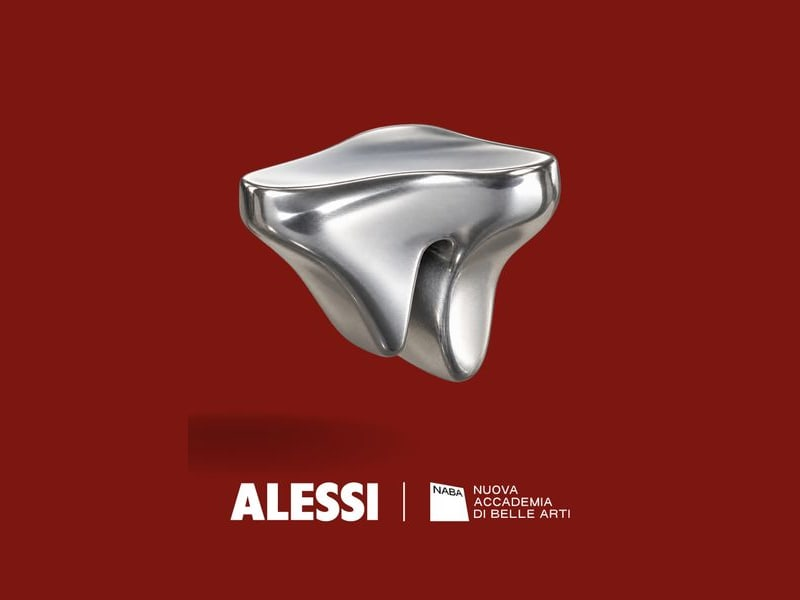
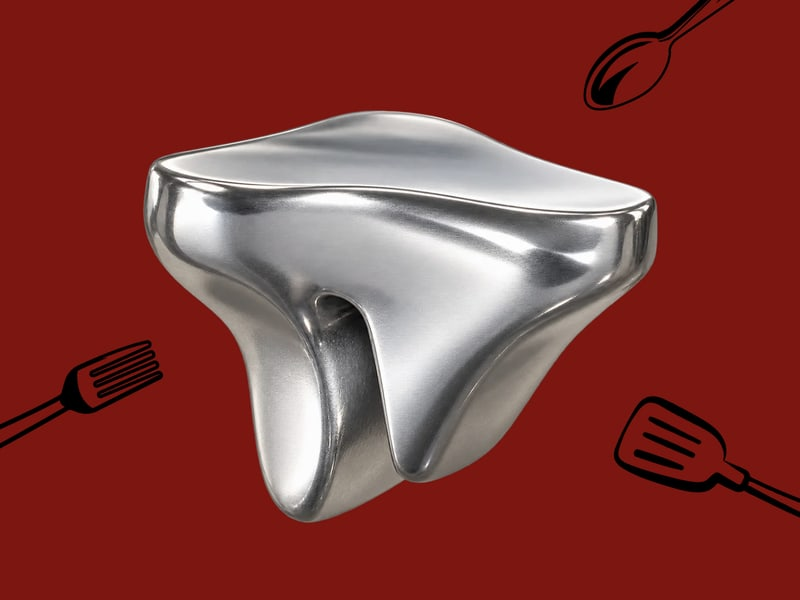
The cards fit their sentences, the stage glows in dark, and the gallery card is Jack's own
1. THE SUMMARY CARDS ARE SIZED SO THEIR LONGEST SENTENCE HOLDS TWO LINES.
Jack: "the solution box seems far off now with the text." Last commit's
`balance` did fix the widow and it broke the shape: it evens the lines
WITHIN the line count, so at 1320 the Solution card went from two full
lines plus "back in." to three lines filling 73/66/65% of the box - a
narrow column of text inside a bordered card with a quarter of it empty
down the right. On unbordered prose nobody sees that; the border is what
makes unused measure a visible shape.

THE CAUSE IS 1.5%, NOT THE WRAP RULE. That sentence needs about 700px of
line. At 1440 the card gives it 2 x 361 and it sets in two full lines; at
1320 it gives 2 x 345 and misses, so it spills into a third line that is
2.15 lines' worth of content however it is distributed. Every wrap rule is
then only choosing where to put the same hole: pretty puts it all at the
end (a 17% stub), balance spreads it across every line.

So the measure buys the 1.5% back: 0.95rem instead of 0.98 and 14px of
side padding instead of 16, together about 5% more line. The Solution card
sets two full lines at 98/101% at 1320 where it was 73/66/65, and 1440 is
unchanged and still full. The 14 also puts the body on the same left edge
as .cs-card-t above it, which had been 2px out since the cards were built.
pretty goes back underneath for the tail. Between about 1150 and 1280 the
sentence still lands just over two lines and the third is a stub - the
[…]

diff --git a/i18n.js b/i18n.js
@@ -130,7 +130,7 @@
       'proj.pot-clip.cs.posters.b': "<p>I developed a poster series to show how the rest could launch as an Alessi product. The line <em>Il buon design vive nei dettagli</em> (“Good design lives in the details”) ties the campaign back to what I learned in research: Alessi makes small objects that improve everyday rituals. I wrote the copy in Italian to place the series in Alessi’s world, and drew on the brand’s existing posters and current graphic design trends.</p>",
       'proj.pot-clip.cs.limits.t': "Limitations and next steps",
       'proj.pot-clip.cs.limits.b': "<p>Testing showed real problems with the concept, and some of them need more research before this could become a product.</p><dl class=\"cs-defs cs-defs-row\"><dt>Rim fit</dt><dd>Testing showed one clip profile fits only about half of pots. Next step: a spring-tension clip or a lined inner surface, plus a larger size for bigger pots.</dd><dt>Heat</dt><dd>In real metal on a hot pot, the clips would get too hot to adjust by hand. Next step: a low-conductivity material where fingers would touch.</dd><dt>Stability</dt><dd>I kept the top flat on purpose so it could hold more kinds of utensils, but a round handle can still roll. Next step: add a shallow cradle for grip, without trying to limit what it holds.</dd><dt>Limited testing</dt><dd>So far, all of the usage research is my own, on a small set of pots. Next step: develop more concepts, test them on a wider range of pots, and refine the strongest one.</dd></dl>",
-      'proj.pot-clip.alt.thumb': "A poster on a deep red ground: the clip in polished silver above the Alessi and NABA marks.",
+      'proj.pot-clip.alt.thumb': "The rest in polished silver on a deep red ground, with a spoon, a fork and two spatulas drawn in line around it.",
       'proj.pot-clip.cs.alt.hero': "A poster headed “Il buon design vive nei dettagli”, with the silver clip hooked over a steel bowl rim holding a slim wooden rod, and the Alessi mark below.",
       'proj.pot-clip.cs.alt.store': "The Alessi store in Milan seen from across the street, its arched window full of small metal pieces on open wooden shelves.",
       'proj.pot-clip.cs.alt.sketches': "A notebook spread headed “Movable pot-rim utensil rest”, with profile sketches, a pot in section and a “how might we” note.",
@@ -390,7 +390,7 @@
       'proj.pot-clip.cs.posters.b': "<p>Desarrollé una serie de carteles para mostrar cómo el soporte podría lanzarse como producto de Alessi. La frase <em>Il buon design vive nei dettagli</em> («el buen diseño vive en los detalles») conecta la campaña con lo que aprendí en la investigación: Alessi hace objetos pequeños que mejoran gestos cotidianos. Escribí los textos en italiano para situar la serie en el mundo de Alessi, y partí de los carteles existentes de la marca y de las tendencias actuales del diseño gráfico.</p>",
       'proj.pot-clip.cs.limits.t': "Limitaciones y próximos pasos",
       'proj.pot-clip.cs.limits.b': "<p>Las pruebas mostraron problemas reales del concepto, y algunos necesitan más investigación antes de que esto pudiera ser un producto.</p><dl class=\"cs-defs cs-defs-row\"><dt>Ajuste al borde</dt><dd>Las pruebas mostraron que un solo perfil encaja en cerca de la mitad de las ollas. Siguiente paso: un soporte con tensión de muelle o una superficie interior forrada, más una talla mayor para ollas grandes.</dd><dt>Calor</dt><dd>En metal real sobre una olla caliente, los soportes estarían demasiado calientes para ajustarlos con la mano. Siguiente paso: un material de baja conductividad donde tocan los dedos.</dd><dt>Estabilidad</dt><dd>Dejé la parte superior plana a propósito para que sostuviera más tipos de utensilios, pero un mango redondo aún puede rodar. Siguiente paso: añadir una cuna poco profunda para el agarre, sin limitar lo que puede sostener.</dd><dt>Pruebas limitadas</dt><dd>Hasta ahora toda la investigación de uso es mía, sobre pocas ollas. Siguiente paso: desarrollar más conceptos, probarlos en más ollas y refinar el más sólido.</dd></dl>",
-      'proj.pot-clip.alt.thumb': "Un cartel sobre fondo rojo oscuro: el soporte en plata pulida sobre las marcas de Alessi y NABA.",
+      'proj.pot-clip.alt.thumb': "El soporte en plata pulida sobre fondo rojo oscuro, con una cuchara, un tenedor y dos espátulas dibujadas a línea alrededor.",
       'proj.pot-clip.cs.alt.hero': "Un cartel encabezado «Il buon design vive nei dettagli», con el soporte plateado enganchado al borde de un bol de acero sosteniendo una fina varilla de madera, y la marca Alessi debajo.",
       'proj.pot-clip.cs.alt.store': "La tienda de Alessi en Milán vista desde la acera de enfrente, con su escaparate en arco lleno de pequeñas piezas de metal en estantes de madera.",
       'proj.pot-clip.cs.alt.sketches': "Una doble página de cuaderno titulada “Movable pot-rim utensil rest”, con bocetos de perfil, una olla en sección y una nota “cómo podríamos”.",
@@ -648,7 +648,7 @@
       'proj.pot-clip.cs.posters.b': "<p>この器具置きがAlessiの製品として発売されるとしたらどう見えるかを示すため、ポスターシリーズを制作した。コピーの<em>Il buon design vive nei dettagli</em>（「良いデザインはディテールに宿る」）は、リサーチでわかったこと——Alessiは日常の所作を少しだけ良くする小さな道具をつくっている——にキャンペーンを結びつけている。シリーズをAlessiの世界に置くためコピーはイタリア語で書き、ブランドの既存のポスターと現在のグラフィックデザインの傾向を参考にした。</p>",
       'proj.pot-clip.cs.limits.t': "限界と次のステップ",
       'proj.pot-clip.cs.limits.b': "<p>テストによってコンセプトの実際の問題が見えた。製品にするには、さらに調査が必要なものもある。</p><dl class=\"cs-defs cs-defs-row\"><dt>ふちへの適合</dt><dd>ひとつの断面では鍋の約半数にしか合わないことが分かった。次の一手：ばね張力式のクリップ、または内面にライニングを施すこと。加えて大きな鍋向けの大きいサイズ。</dd><dt>熱</dt><dd>実際の金属で熱い鍋に掛ければ、手で位置を直せないほど熱くなる。次の一手：指が触れる部分に熱伝導率の低い素材を使うこと。</dd><dt>安定性</dt><dd>多様な器具を支えられるよう、上面はあえて平らにした。しかし丸い柄は転がりうる。支える対象を狭めない範囲で、浅い窪みを加えるのが次の一手。</dd><dt>限られたテスト</dt><dd>現時点で使用に関する調査はすべて自分自身、しかも少数の鍋によるものだ。次の一手：案をさらに展開し、より広い範囲の鍋で試し、最も強い案を磨くこと。</dd></dl>",
-      'proj.pot-clip.alt.thumb': "深い赤を背景にしたポスター。磨かれた銀色のクリップの下にAlessiとNABAのマークが並ぶ。",
+      'proj.pot-clip.alt.thumb': "深い赤を背景にした、磨かれた銀色のクリップ。まわりにスプーン、フォーク、ヘラが線画で描かれている。",
       'proj.pot-clip.cs.alt.hero': "「Il buon design vive nei dettagli」と題したポスター。ステンレスボウルのふちに掛けた銀色のクリップが細い木の棒を支え、下にAlessiのマークが入る。",
       'proj.pot-clip.cs.alt.store': "通りの向かいから見たミラノのAlessi店舗。アーチ型の窓の奥、木の棚に小さな金属製品が並ぶ。",
       'proj.pot-clip.cs.alt.sketches': "「Movable pot-rim utensil rest」と見出しのついたノートの見開き。断面のスケッチ、鍋の断面図、「どうすれば」のメモがある。",
@@ -906,7 +906,7 @@
       'proj.pot-clip.cs.posters.b': "<p>Ho sviluppato una serie di manifesti per mostrare come l’appoggio potrebbe uscire come prodotto Alessi. La frase <em>Il buon design vive nei dettagli</em> lega la campagna a quello che ho imparato dalla ricerca: Alessi fa oggetti piccoli che migliorano un gesto quotidiano. Ho scritto i testi in italiano per collocare la serie nel mondo Alessi, e sono partito dai manifesti esistenti del marchio e dalle tendenze grafiche attuali.</p>",
       'proj.pot-clip.cs.limits.t': "Limiti e prossimi passi",
       'proj.pot-clip.cs.limits.b': "<p>I test hanno mostrato problemi reali del concept, e alcuni richiedono altra ricerca prima che questo possa diventare un prodotto.</p><dl class=\"cs-defs cs-defs-row\"><dt>Calzata sul bordo</dt><dd>I test hanno mostrato che un solo profilo si adatta a circa metà delle pentole. Prossimo passo: un supporto a molla o una superficie interna rivestita, più una misura più grande.</dd><dt>Calore</dt><dd>In metallo vero su una pentola calda, i supporti scotterebbero troppo per spostarli a mano. Prossimo passo: un materiale a bassa conducibilità dove toccano le dita.</dd><dt>Stabilità</dt><dd>Ho tenuto la parte superiore piatta di proposito, per reggere più tipi di utensile, ma un manico tondo può ancora rotolare. Prossimo passo: una culla poco profonda per la presa, senza limitare ciò che regge.</dd><dt>Test limitati</dt><dd>Finora tutta la ricerca d’uso è la mia, su poche pentole. Prossimo passo: sviluppare altri concept, provarli su più pentole e affinare il più solido.</dd></dl>",
-      'proj.pot-clip.alt.thumb': "Un manifesto su fondo rosso scuro: il supporto in argento lucido sopra i marchi Alessi e NABA.",
+      'proj.pot-clip.alt.thumb': "Il supporto in argento lucido su fondo rosso scuro, con un cucchiaio, una forchetta e due spatole disegnati a linea intorno.",
       'proj.pot-clip.cs.alt.hero': "Un manifesto con la riga «Il buon design vive nei dettagli», il supporto argentato agganciato al bordo di una ciotola d’acciaio che regge un’asta di legno sottile, e il marchio Alessi sotto.",
       'proj.pot-clip.cs.alt.store': "Il negozio Alessi a Milano visto dall’altro lato della strada, con la vetrina ad arco piena di piccoli oggetti di metallo su scaffali di legno.",
       'proj.pot-clip.cs.alt.sketches': "Una doppia pagina di quaderno intitolata “Movable pot-rim utensil rest”, con schizzi di profilo, una pentola in sezione e una nota “come potremmo”.",

diff --git a/styles.css b/styles.css
@@ -3299,30 +3299,37 @@ body.is-loading { overflow: hidden; }
   font-size: 0.72rem; font-weight: 700; letter-spacing: 1.6px;
   text-transform: uppercase; padding: 9px 14px;
 }
-/* NO WIDOW ON THE LAST LINE - AND `balance` HERE, WHERE THE BRIEF TAKES
-   `pretty`. Jack: "the solution box has a widow; fix it." At 1320 the
-   Solution card broke to "...so drips fall / back in.", and at 1000 and
-   900 all three cards ended on a two-word fragment.
-   PRETTY WAS TRIED FIRST AND DID NOT FIX IT. Chrome only rebalances the
-   last few lines and only so far; measured at 1320 it left "back in."
-   exactly where it was, and at 1200 it still left "a utensil." and
-   "thin-rimmed pots." hanging. The brief's note explains why a rule beats
-   a non-breaking space, and that reasoning is unchanged - it is the choice
-   of rule that differs.
-   BALANCE IS THE RIGHT ONE FOR A SHORT BLOCK IN A NARROW COLUMN, which is
-   exactly what a card is: two to four lines where the last one is a large
-   fraction of the whole, so an even rag reads as set rather than as
-   spilled. The brief is one wide paragraph at display size where only the
-   last line was wrong, and balancing it would re-rag three lines that are
-   already right.
-   AND IT COSTS NOTHING, which pretty could not promise: balance evens the
-   lines WITHIN the line count normal wrapping already produced, so the
-   row's height is identical to the unbalanced one at every width measured
-   - 174 at 1440, 1320 and 1200, 198 at 1000, 223 at 900. The cards are
-   grid items in one row, so all three take the tallest's height anyway. */
+/* THE CARD IS SIZED SO ITS LONGEST SENTENCE HOLDS TWO LINES, and that is
+   the fix for both complaints about this block.
+   FIRST `balance`, WHICH SOLVED THE WIDOW AND BROKE THE SHAPE. It evens
+   the lines within the line count, so at 1320 the Solution card went from
+   two full lines and "back in." to three lines filling 73/66/65% of the
+   box - no widow, and a narrow column of text inside a bordered card with
+   a quarter of it empty down the right. Jack: "the solution box seems far
+   off now with the text." On unbordered prose nobody would see it; the
+   border is what makes the unused measure a visible shape.
+   THE CAUSE IS 1.5%, NOT THE WRAP RULE. That sentence needs about 700px
+   of line; at 1440 the card gives it 2 x 361 and it sets in two full
+   lines, and at 1320 it gives 2 x 345 and misses - so the text spills
+   into a third line that is 2.15 lines' worth of content however it is
+   distributed. Every wrap rule is then choosing where to put the same
+   hole: `pretty` puts it all at the end (a 17% stub), `balance` spreads it
+   across every line.
+   SO THE MEASURE BUYS THE 1.5% BACK: 0.95rem instead of 0.98 and 14px of
+   side padding instead of 16, together about 5% more line. Measured, the
+   Solution card sets two full lines at 98/101% at 1320 where it was
+   73/66/65, and 1440 is unchanged and still full. The 14 also puts the
+   body on the same left edge as .cs-card-t above it, which was 2px out.
+   AND `pretty` UNDERNEATH, because with the text fitting again the only
+   job left is the tail. Between about 1150 and 1280 the sentence still
+   lands just over two lines and the third is a stub; that band is the
+   honest residue of a fixed string in a fluid column, and the answer
+   there would be a breakpoint for something nobody can name. The brief
+   keeps `pretty` for its own reason - one wide paragraph at display size
+   where only the last line was ever wrong. */
 .cs-card-b {
-  font-size: 0.98rem; line-height: 1.55; padding: 18px 16px 20px; margin: 0;
-  text-wrap: balance;
+  font-size: 0.95rem; line-height: 1.55; padding: 18px 14px 20px; margin: 0;
+  text-wrap: pretty;
 }
 
 /* ---- the brief, as the page's one dark band ---------------------------
@@ -3831,6 +3838,26 @@ body.is-loading { overflow: hidden; }
 .cs-stage-slot .project-stage {
   border: 3px solid var(--accent);
   background: var(--white);
+}
+/* AND IN DARK IT GLOWS, like everything else accent-coloured there. Jack:
+   "in dark mode, can you make the 3D model box glow a little bit like the
+   neon?" This is the brief's own split - light is refined, dark is
+   experimental - and the page already answers it the same way in three
+   places: the hero CTA, the badge mark and the seam ring all bloom in
+   dark and sit flat in light.
+   THE SAME SHAPE AS .btn-block's: its alpha, 34%, and a slightly wider
+   blur, 30px against 26. Same alpha because that is the strength Jack
+   already accepted on the CTA and the one that reads as neon rather than
+   as a drawn line; wider because this is a 546px frame where that is a
+   226px control, and a blur tuned to a small object draws a rim around a
+   big one instead of a halo. 26% at 34px was tried first and came out
+   closer to a smudge than a glow.
+   color-mix on --accent rather than a literal, so it tracks the token the
+   border already uses. No second declaration in light: a bloom on a coral
+   frame over sand is the gradient this page does not do, and the two
+   modes differing in kind is the brief. */
+:root[data-theme="dark"] .cs-stage-slot .project-stage {
+  box-shadow: 0 0 30px color-mix(in srgb, var(--accent) 34%, transparent);
 }
 
 /* ---- the process, as four cards in a 2x2 -------------------------------

diff --git a/script.js b/script.js
@@ -180,19 +180,35 @@ const projectData = {
   },
 
   'pot-clip': {
-    /* THE CARD IS THE RED POSTER, WHOLE. Jack: "for the project card in the
-       main page, change the image to 20.jpg and let's see how that looks."
-         The card slot is 4:3 and the poster is 1414x2000, so a crop can hold
-       the object or the ALESSI / NABA lockup and not both. It is composited
-       instead: the poster scaled to the full height of a 1280x960 canvas
-       filled with #7C1611, which is the poster's own ground sampled at all
-       four corners. The bars are therefore the same red as the picture and
-       nothing reads as letterboxed - the card is one red field with the
-       object in it, and no part of the poster is cut.
-         It is also lighter than the photograph it replaces, 37K against
-       198K, because most of it is flat colour.
-         bg is that red for the same reason it was the photograph's grey:
-       the card must not flash a colour the image then contradicts.
+    /* THE CARD IS A PIECE JACK MADE FOR THE SLOT. "Change the project card
+       to newAlessicard.png" - the render on its own red ground with four
+       drawn utensils around it, 1400x1050, which is the 4:3 and the exact
+       export size this project's card spec asks for. So there is no crop
+       and no composite this time: the file lands in the slot as it is.
+         IT REPLACES A COMPOSITE OF THE POSTER, which was the previous
+       answer to the same slot - the 1414x2000 poster scaled onto a red
+       canvas, because a 4:3 crop of it could hold the object or the
+       ALESSI / NABA lockup and not both. A piece drawn for the shape beats
+       a piece fitted to it.
+         IT KEEPS CLEAR OF THE TWO THINGS THAT EAT A CARD'S EDGES. The
+       .card-media::after badge is a 46x46 square pinned top-right with two
+       hard black rules, and the hover zoom scales the image 1.04 - about
+       2% off every side. The top-right corner of this one is empty ground
+       and the nearest drawing, the spoon, sits inside 88% of the width, so
+       neither reaches anything.
+         bg is #7B1610, the ground sampled from the file's own corner
+       pixels. It was #7C1611 for the composite - one step away, the same
+       red through two exports - and it is kept current for a reason that
+       does not currently apply: renderGallery writes it onto the card as
+       --bg, and NOTHING READS THAT PROPERTY. Checked across styles.css,
+       script.js and index.html: one write, no var(--bg) anywhere. So `bg`
+       is inert today. It is left correct rather than left stale because
+       the thing it was for - the card not flashing a colour the image
+       then contradicts - is still worth having, and the fix is one rule
+       on .card-media rather than six values to re-derive.
+         80K jpeg / 59K webp at 43.7 and 42.6 dB against a q98 reference.
+       Bigger than the 37K composite, which was mostly flat colour; this
+       one carries a full-frame render.
          ?v= BECAUSE THE BYTES CHANGED AT A LIVE PATH. /assets/ gets an hour
        of freshness and a week of stale-while-revalidate, so without it a
        returning visitor keeps the old bowl photograph for days. tools/
@@ -202,9 +218,9 @@ const projectData = {
        masonry wall and nothing replaced them for the card - so the one
        image representing this project in the gallery had been falling
        through to the generic "Photo 1 from POT CLIP UTENSIL REST". */
-    bg: '#7C1611',
-    thumb: { src: '/assets/projects/pot-clip/thumb.jpg?v=8c30b2db', w: 1280, h: 960,
-      small: '/assets/projects/pot-clip/thumb-800.jpg?v=516b3c30',
+    bg: '#7B1610',
+    thumb: { src: '/assets/projects/pot-clip/thumb.jpg?v=51f18351', w: 1400, h: 1050,
+      small: '/assets/projects/pot-clip/thumb-800.jpg?v=03bb7618',
       altKey: 'proj.pot-clip.alt.thumb' },
     category: 'PRODUCT',
     title: 'POT CLIP UTENSIL REST',

diff --git a/CLAUDE.md b/CLAUDE.md
@@ -1694,6 +1694,20 @@ themes and, as it turned out, quieter than the job needed).
 Same 3px as `.cs-fig` — the weight matches its neighbour and only the
 colour differs. **Do not give it the hard rule**; that is the thing the
 viewer note is about.
+**AND IN DARK IT GLOWS.** Jack: *"in dark mode, can you make the 3D model
+box glow a little bit like the neon?"* That is the brief's own split —
+light refined, dark experimental — and the page already answers it the
+same way in three places: the hero CTA, the badge mark and the seam ring
+all bloom in dark and sit flat in light.
+**`.btn-block`'s alpha and a slightly wider blur**: `0 0 30px` at **34%**
+against its 26px at 34%. The same alpha because that is the strength Jack
+already accepted on the CTA; wider because this is a 546px frame where
+that is a 226px control, and a blur tuned to a small object draws a rim
+round a big one instead of a halo. 26% at 34px was tried first and came
+out closer to a smudge than a glow. `color-mix` on `--accent`, so it
+tracks the token the border already uses, and **no light-mode
+declaration** — a bloom on a coral frame over sand is the gradient this
+page does not do.
 
 **AND THE DRAG LABEL IS INSIDE IT NOW, 14px from the top-left corner.**
 Jack: *"move the drag to rotate text to the top left inside corner of the
@@ -2269,28 +2283,35 @@ rule that can add a line does not belong under a measurement unless it is
 asked for. Where the property is unsupported the paragraph wraps exactly as
 it does today, so there is nothing to fall back to.
 
-**THE SUMMARY CARDS TAKE `balance`, NOT `pretty`, AND THE DIFFERENCE IS
-THE SHAPE OF THE BLOCK.** Jack: *"the solution box has a widow; fix it."*
-At 1320 the Solution card broke to "…so drips fall / **back in.**", and at
-1000 and 900 all three cards ended on a two-word fragment.
-**`pretty` was tried first and did not fix it**, which is worth knowing
-before reaching for it again: Chrome only rebalances the last few lines
-and only so far — measured at 1320 it left "back in." exactly where it
-was, and at 1200 it still left "a utensil." and "thin-rimmed pots."
-hanging.
-**`balance` is the right rule for a short block in a narrow column**,
-which is what a card is: two to four lines where the last one is a large
-fraction of the whole, so an even rag reads as set rather than as spilled.
-The brief is one wide paragraph at display size where only the last line
-was wrong, and balancing it would re-rag three lines that are already
-right.
-**And it costs no height**, which `pretty` could not promise: `balance`
-evens the lines WITHIN the line count normal wrapping already produced, so
-the row measures the same with it as without — **174px at 1440, 1320 and
-1200, 198 at 1000, 223 at 900.** Measured across those widths plus 390 and
-320 in all four languages, every last line now carries three words or more
-(or a full CJK run), and the three cards stay level with each other
-wherever they are a row.
+**THE SUMMARY CARDS ARE SIZED SO THEIR LONGEST SENTENCE HOLDS TWO LINES,
+AND THAT IS THE FIX FOR BOTH COMPLAINTS ABOUT THIS BLOCK.**
+**First `balance`, which solved the widow and broke the shape.** Jack:
+*"the solution box has a widow; fix it."* At 1320 the Solution card was
+breaking to "…so drips fall / **back in.**", and `balance` evens the lines
+within the line count, so it became three lines filling **73/66/65%** of
+the box — no widow, and a narrow column of text inside a bordered card
+with a quarter of it empty down the right. Jack again: *"the solution box
+seems far off now with the text."* On unbordered prose nobody would see
+it; **the border is what makes unused measure a visible shape.**
+**The cause is 1.5%, not the wrap rule.** That sentence needs about 700px
+of line. At 1440 the card gives it 2 × 361 and it sets in two full lines;
+at 1320 it gives 2 × 345 and misses — so it spills into a third line that
+is 2.15 lines' worth of content however it is distributed. Every wrap rule
+is then only choosing where to put the same hole: `pretty` puts it all at
+the end (a 17% stub), `balance` spreads it across every line.
+**So the measure buys the 1.5% back**: `0.95rem` instead of `0.98` and
+**14px** of side padding instead of 16, together about 5% more line.
+Measured, the Solution card sets two full lines at **98/101%** at 1320
+where it was 73/66/65, and 1440 is unchanged and still full. The 14 also
+puts the body on the same left edge as `.cs-card-t` above it, which had
+been **2px out** since the cards were built.
+**`pretty` underneath**, because with the text fitting again the only job
+left is the tail. **Between about 1150 and 1280 the sentence still lands
+just over two lines and the third is a stub** — that band is the honest
+residue of a fixed string in a fluid column, and the only answer there
+would be a breakpoint for something nobody can name. The brief keeps
+`pretty` for its own reason: one wide paragraph at display size where only
+the last line was ever wrong.
 **AND IT CARRIES THE CARDS' OWN 3px `--black` FRAME, WHICH ONLY SHOWS IN
 DARK.** Jack: *"on dark mode, the outline on the box for The brief
 disappears or blends in."* He is reading the tokens exactly right —
@@ -2397,8 +2418,33 @@ And **the rod's top edge is y 1025 with the cast shadow running to 2745**,
 which is what the last pass measured after this note had claimed 2490 for
 two crops running. *A number nobody re-measures outlives the thing it
 describes.*
-**THE GALLERY CARD IS THE RED POSTER, WHOLE.** Jack: *"for the project card
-in the main page, change the image to 20.jpg and let's see how that looks."*
+**THE GALLERY CARD IS A PIECE JACK DREW FOR THE SLOT.** *"Change the
+project card to newAlessicard.png"* — the render on its own red ground
+with four drawn utensils around it, **1400 × 1050**, which is the 4:3 and
+the exact export size this project's card spec asks for. No crop and no
+composite: the file lands in the slot as it is. **80K jpeg / 59K webp at
+43.7 and 42.6 dB** against a q98 reference — bigger than the 37K composite
+it replaces, which was mostly flat colour, because this one carries a
+full-frame render.
+**It keeps clear of the two things that eat a card's edges**, which is
+what the spec exists for: the `.card-media::after` badge is a 46 × 46
+square pinned top-right with two hard black rules, and the hover zoom
+scales the image 1.04 — about 2% off every side. This card's top-right
+corner is empty ground and its nearest drawing sits inside 88% of the
+width, so neither reaches anything.
+**`bg` IS INERT, AND THAT IS A FINDING RATHER THAN A DECISION.**
+`renderGallery` writes it onto the card as `--bg` and **nothing reads that
+property** — checked across `styles.css`, `script.js` and `index.html`:
+one write, no `var(--bg)` anywhere. So the colour that is supposed to stop
+a card flashing something the image then contradicts does nothing today.
+It is kept correct (`#7B1610`, sampled from the new file's corner pixels,
+where the composite's was `#7C1611`) rather than left stale, because the
+thing it was for is still worth having and the fix is one rule on
+`.card-media` rather than six values to re-derive.
+
+**IT REPLACED A COMPOSITE OF THE RED POSTER**, which was the previous
+answer to the same slot. Jack then: *"for the project card in the main
+page, change the image to 20.jpg and let's see how that looks."*
 The card slot is 4:3 and the poster is 1414×2000, so a crop can hold the
 object or the ALESSI / NABA lockup and not both. **It is composited
 instead**: the poster scaled to the full height of a 1280×960 canvas filled
